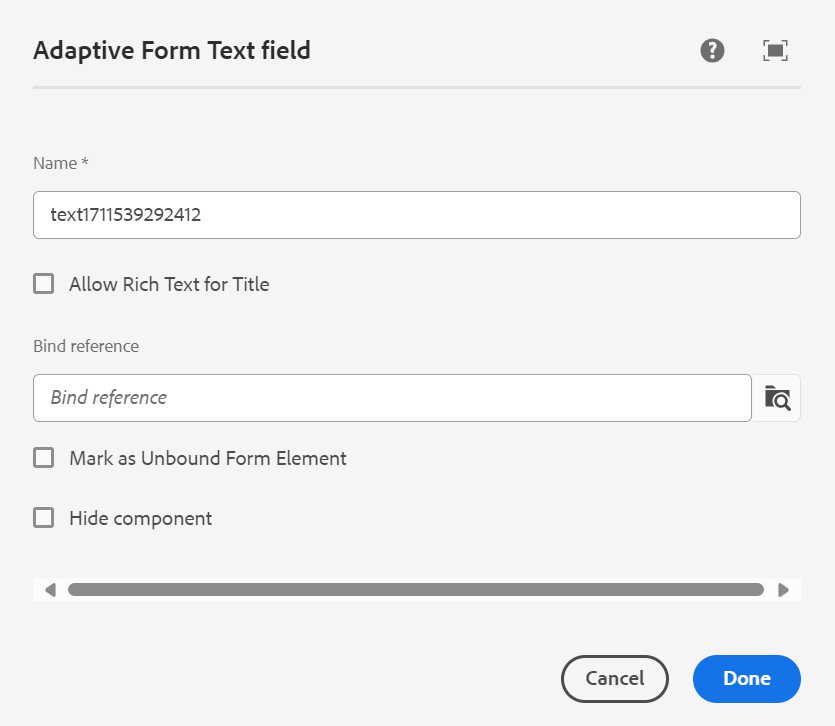
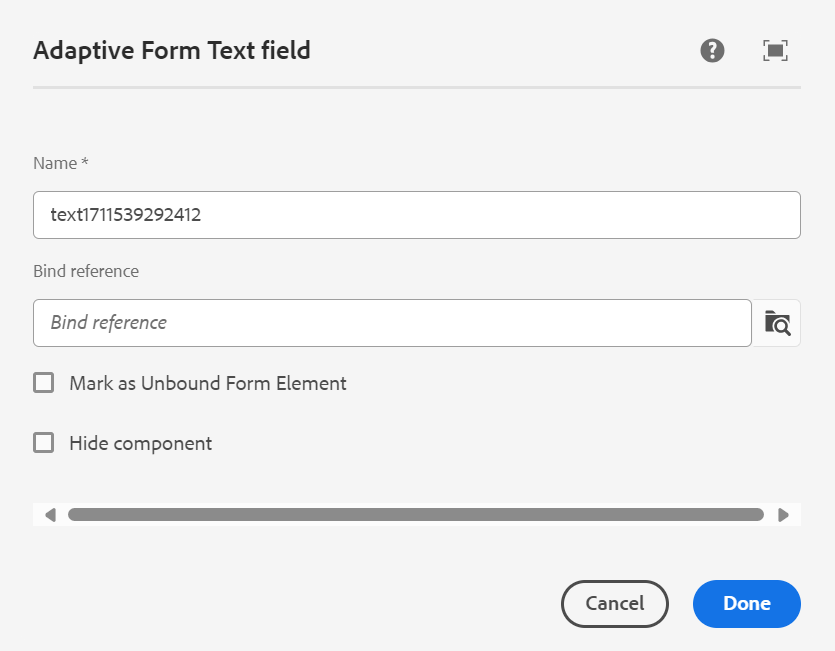
updated articles as per feedback

diff --git a/help/adaptive-forms/components/text.md b/help/adaptive-forms/components/text.md
@@ -51,10 +51,6 @@ You can easily customize your text experience for visitors with the Configure Di
 ![Basic tab](/help/adaptive-forms/assets/text_properties.png)
 
 -   **Name** - You can identify a form component easily with its unique name both in the form and in the rule editor, but the name must not contain spaces or special characters.
-- **Allow Rich Text for Title** - This features enables users to format plain text titles, incorporating features like bold, italic, underlined text, various fonts, font sizes, colors, and additional option to enhance visual presentation and customization. It offers greater flexibility and creative control in making titles stand out within documents, websites, or applications.  
-    Upon selecting the checkbox for **Allow Rich Text for Title** , formatting options become visible to style the component's title. To access all available formatting options, you can click on the ![Fullscreen icon](/help/adaptive-forms/assets/fullscreen-icon.png) tab.
-     
-     ![Rich text support](/help/adaptive-forms/assets/richtext-support-title.png)
      
 -   **Bind Reference** - A bind reference is a reference to a data element that is stored in an external data source and used in a form. The bind reference allows you to dynamically bind data to form fields, so that the form can display the most up-to-date data from the data source. For example, a bind reference can be used to display a customer's name and address in a form, based on the customer's ID entered into the form. The bind reference can also be used to update the data source with data entered into the form. In this way, AEM Forms enables you to create forms that interact with external data sources, providing a seamless user experience for collecting and managing data.
 - **Mark as Unbound Form Element**: Select the option to configure a form field not linked to any schema. This option allows you to save data without updating the data source. It also enables you to handle data in a custom way, separate from standard database integration.

diff --git a/help/adaptive-forms/components/checkbox-group.md b/help/adaptive-forms/components/checkbox-group.md
@@ -79,7 +79,11 @@ You can easily customize your checkbox experience for visitors with the Configur
 -   **Options** - You can add data values and display text pairs using the **Add** button. You can also format the options for checkbox group using **Allow Rich Text for Options**. 
   
      ![Rich text support for options](/help/adaptive-forms/assets/richtext-for-options.png)
-    Once a new option is added, the following actions can be performed:
+
+    Once you select the checkbox for **Allow Rich Text for Title** formatting options become visible to style the component's options. To access all available formatting options, you can click on the `Fullscreen` ![Fullscreen icon](/help/adaptive-forms/assets/fullscreen-icon.png) tab.
+     ![Rich text support for options](/help/adaptive-forms/assets/richtextoptions-support.png)
+     
+    After a new option is added, the following actions can be performed:
     - **Data Value** - This option allows to enter the content to submit when an option is selected.
     - **Display Text** - This option allows to enter the content to display in an Adaptive Form.
     - **Delete** - Tap or click to delete the option of a checkbox .

diff --git a/help/adaptive-forms/components/radio-button.md b/help/adaptive-forms/components/radio-button.md
@@ -72,7 +72,12 @@ You can easily customize your Radio button experience for visitors with the Conf
 -   **Options** - You can add data values and display text pairs using the **Add** button. You can also format the options for radiobutton group using **Allow Rich Text for Options**. 
   
      ![Rich text support for options](/help/adaptive-forms/assets/richtext-for-options.png)
-     Once a new option is added, the following actions can be performed:
+
+    Once you select the checkbox for **Allow Rich Text for Title** formatting options become visible to style the component's options. To access all available formatting options, you can click on the `Fullscreen` ![Fullscreen icon](/help/adaptive-forms/assets/fullscreen-icon.png) tab.
+    
+    ![Rich text support for options](/help/adaptive-forms/assets/richtextoptions-support.png)
+    
+    After a new option is added, the following actions can be performed:
     
     - **Data Value** - This option allows to enter the content to submit when an option is selected.
     - **Display Text** - This option allows to enter the content to display in an Adaptive Form.
